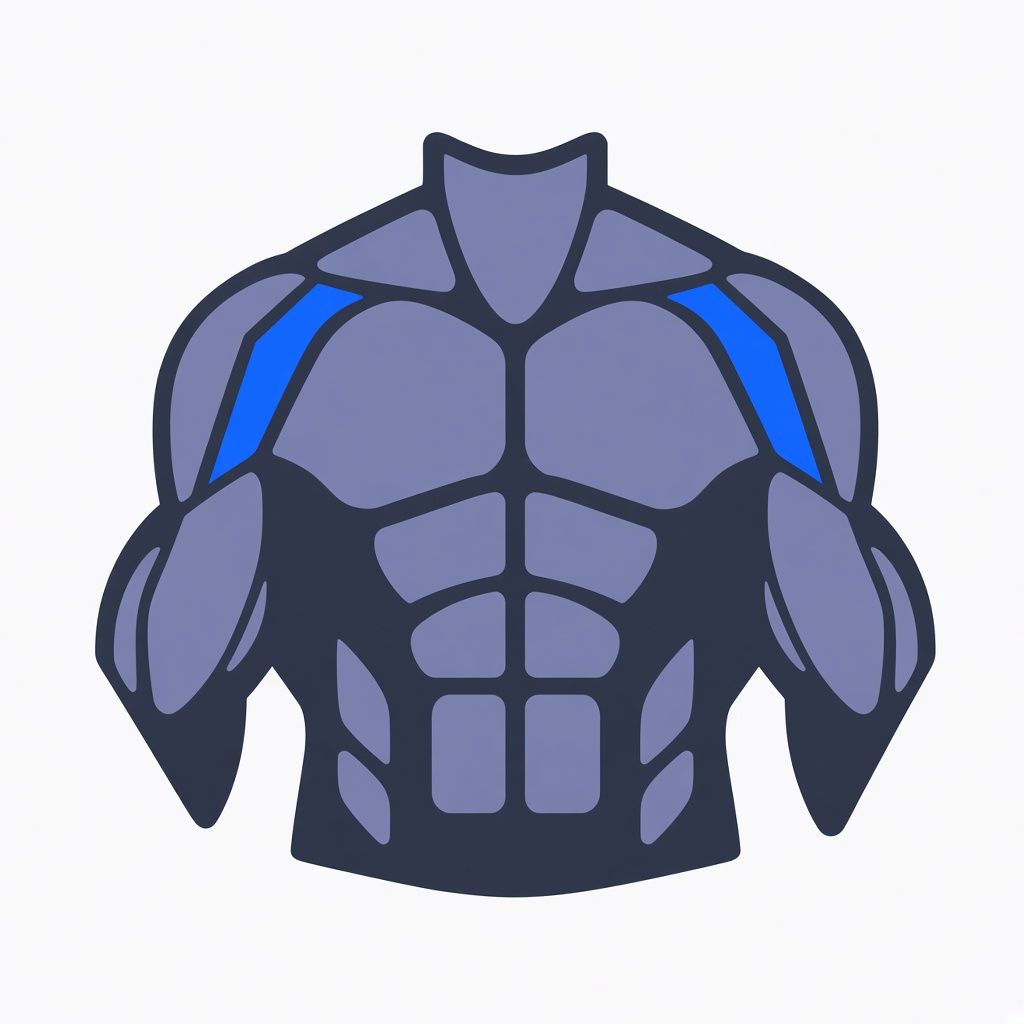
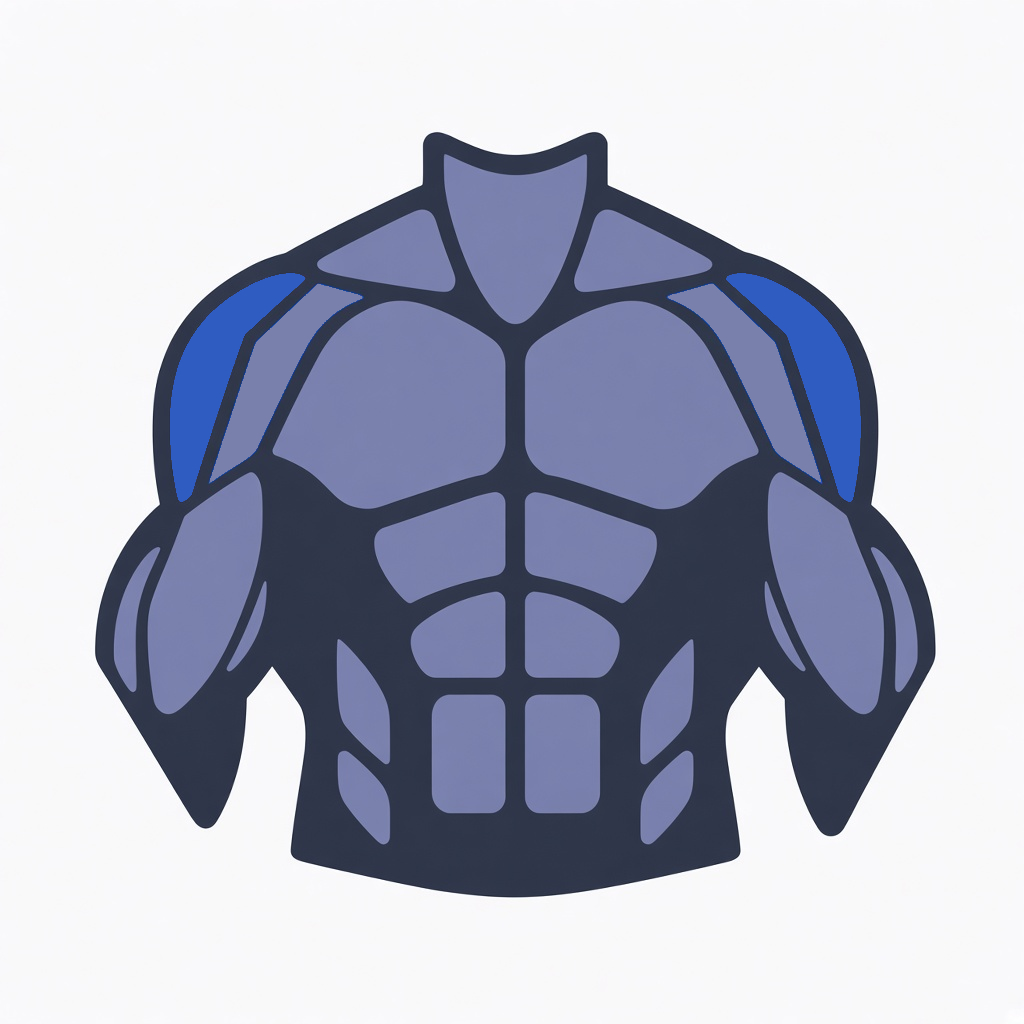
fix(web): muscle picker images match their labels; new obliques art
- Rename mis-filed tiles so each file shows its muscle: front/middle deltoid
  and lats/upper back were swapped; the clear inner-thigh art (filed as
  obliques) is now adductors.
- New obliques.jpg derived from abs.jpg (derive-obliques.mjs): flank
  segments highlighted, six-pack neutral.
- Mark derive-adductors.mjs superseded (it would restore the faint image).
- zh: 內收肌 → 內收肌（下肢）.

Changed region(s): [[0.1562, 0.25, 0.3438, 0.5], [0.6562, 0.25, 0.8438, 0.5]]

diff --git a/apps/web/src/shared/assets/images.ts b/apps/web/src/shared/assets/images.ts
@@ -9,9 +9,10 @@ import { ONBOARDING_MUSCLE_GROUPS, type OnboardingMuscleGroup } from "@pacergo/s
 const MUSCLE_ASSET_DIR = "/images/focused_muscles";
 
 /**
- * On-disk filename for each muscle-picker tile. Verified filenames are the
- * source of truth (match the onboarding key). Assets still carrying a `1` in
- * the name are unverified WIP — leave those files alone until renamed.
+ * On-disk filename for each muscle-picker tile — named after the muscle the
+ * artwork highlights. Some tiles are derived by recolouring another tile
+ * (scripts/derive-*.mjs, e.g. obliques from abs). Calves still needs art:
+ * nothing is highlighted in calves.jpg.
  */
 const MUSCLE_GROUP_IMAGE_FILES: Record<OnboardingMuscleGroup, string> = {
   abs: "abs.jpg",
